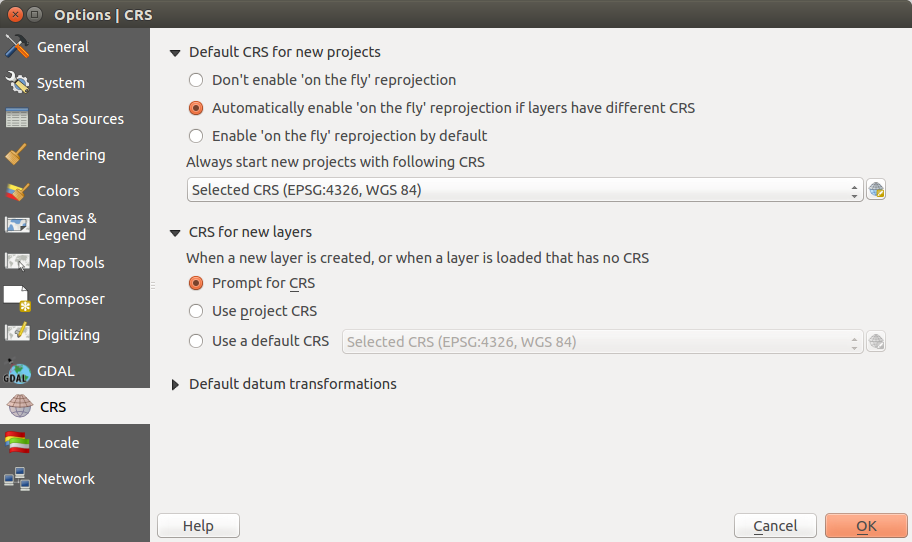
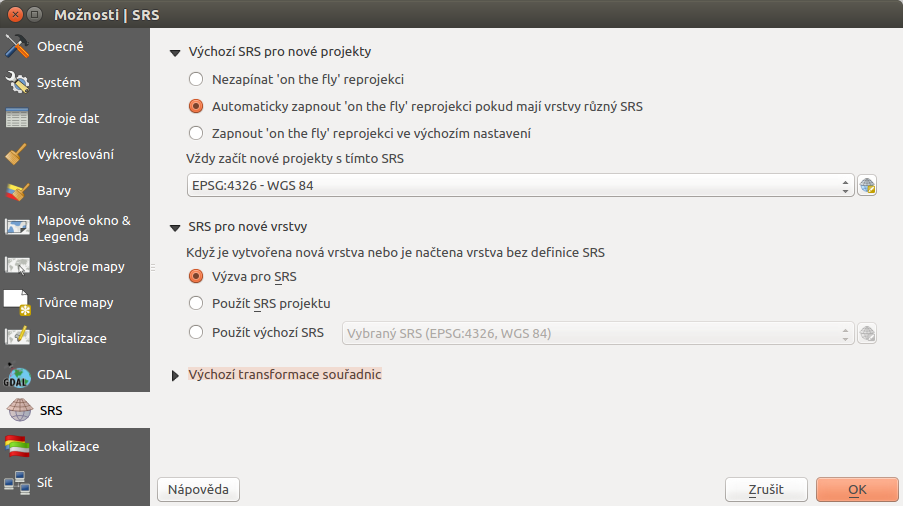
sour_system to cs

diff --git a/ruzne/sour_system.rst b/ruzne/sour_system.rst
@@ -3,44 +3,60 @@
 
 Souřadnicový systém
 -------------------
-Definice  souřadnicového systému, kartografického zobrazení a příbuzných tém je detailně popsáno v podkladech školení `Open Source GIS <http://training.gismentors.eu/open-source-gis/soursystemy/index.html>`_ .
+Definice  souřadnicového systému, kartografického zobrazení a příbuzných tém je
+detailně popsáno v podkladech školení `Open Source GIS
+<http://training.gismentors.eu/open-source-gis/soursystemy/index.html>`_ .
 
 .. _sour-system:
 
 Souřadnicový systém projektu
 ============================
-Po instalaci je nastaven souřadnicový systém projeku na *WGS 84*.
-Pokud budete pracovat s daty pro území ČR, tak je pravděpodobné, že budou v souřadnicovém systému s EPSG 5514. 
-Pro další práci je vhodné nastavit souřadnicový systém projektu, aby se systém pokaždé otevřel s požadovaným nastavením.
+Po instalaci je nastaven souřadnicový systém projeku na *WGS 84*.  Pokud budete
+pracovat s daty pro území ČR, tak je pravděpodobné, že budou v souřadnicovém
+systému s EPSG 5514.  Pro další práci je vhodné nastavit souřadnicový systém
+projektu, aby se systém pokaždé otevřel s požadovaným nastavením.
 
-Toto nastavení je v :menuselection:`Settings --> Options...` záložka :item:`CRS`. V části *Default CRS for new projects* je položka *Always start new projects with following CRS*.
+Toto nastavení je menu v :menuselection:`Nastavení --> Možnosti...` záložka
+:item:`SRS`. V části *Výchozí SRS pro nové projekty* je položka *Vždy začít nové
+projekty s tímto SRS*.
 
-    .. figure:: images/set_crs.png
-       :class: large
-       :scale-latex: 80
+.. figure:: images/set_crs.png
+   :class: large
+   :scale-latex: 80
  
        Menu pro nastavení CRS projektu.
 
-Přez ikonku |set_crs| se vyvolá menu pro výběr souřadnicového výběru. Konkrétní souřadnicový systém je možné vybrat z nabídky, nebo použít filtrovací pole pro rychlejší vyhledání. Filtrovat lze pomocí EPSG kódu, nebo také dle názvu systému.
+Přez ikonku |set_crs| :sup:`Vyberte SRS` se vyvolá menu pro výběr souřadnicového
+výběru. Konkrétní souřadnicový systém je možné vybrat z nabídky, nebo použít
+filtrovací pole pro rychlejší vyhledání. Filtrovat lze pomocí EPSG kódu, nebo
+také dle názvu systému.
 
-    .. figure:: images/choose_crs.png
+.. figure:: images/choose_crs.png
  
        Okno pro výběr CRS.
 
-    .. important:: Takováto změna se projeví při dalším spuštění systému.
+.. important:: Takováto změna se projeví při dalším spuštění systému.
     
 On-the-fly transformace
 ^^^^^^^^^^^^^^^^^^^^^^^
-V případě práce s vrstvami, které mají odlišný souřadnicový systém než projekt, tak je nutné mít povolenou takzvanou "reprojekci" (on the fly transformaci). Toto nastavení je součástí nastavení souřadnicového systému projektu. 
-V případě, že by tato transformace nebyla povolena, tak by se vrstvy s odlišným souřadnicovým systémem nevykreslili v mapovém okně.
+V případě práce s vrstvami, které mají odlišný souřadnicový systém než projekt,
+tak je nutné mít povolenou takzvanou "reprojekci" (on the fly transformaci).
+Toto nastavení je součástí nastavení souřadnicového systému projektu.  V
+případě, že by tato transformace nebyla povolena, tak by se vrstvy s odlišným
+souřadnicovým systémem nevykreslili v mapovém okně.
 
-Zda je tato transformace povolena je vidět i v stavovém řádku. EPSG kód je doplněn o text "(OTF)".
+Zda je tato transformace povolena je vidět i v stavovém řádku. EPSG kód je
+doplněn o text "(OTF)".
     
 .. _sour-system-vrstvy:
 
 Souřadnicový systém nové vrstvy
 ===============================
-Pokud budete vytvářet novou vrstvu, nebo přidávat novou vrstvu bez definovaného souř. systému, tak je možné určit jim předdefinovaný souřadnicový systém.
+Pokud budete vytvářet novou vrstvu, nebo přidávat novou vrstvu bez definovaného
+souř. systému, tak je možné určit jim předdefinovaný souřadnicový systém.
 
-Toto nastavení je dostupné v :menuselection:`Settings --> Options...` záložka :item:`CRS` v části :item:`CRS for new layers`.
-Lze zvolit konkrétní souřadnicový systém (stejný postup jako u :ref:`projektu <sour-system>`), vynutit si pokaždé dotaz pro zadání nebo vztáhnout nastavení k aktuálnímu projektu.
+Toto nastavení je dostupné v :menuselection:`Nastavení --> Možnosti...` záložka
+:item:`SRS` v části :item:`SRS pro nové vrstvy`.  Lze zvolit konkrétní
+souřadnicový systém (stejný postup jako u :ref:`projektu <sour-system>`),
+vynutit si pokaždé dotaz pro zadání nebo vztáhnout nastavení k aktuálnímu
+projektu.
